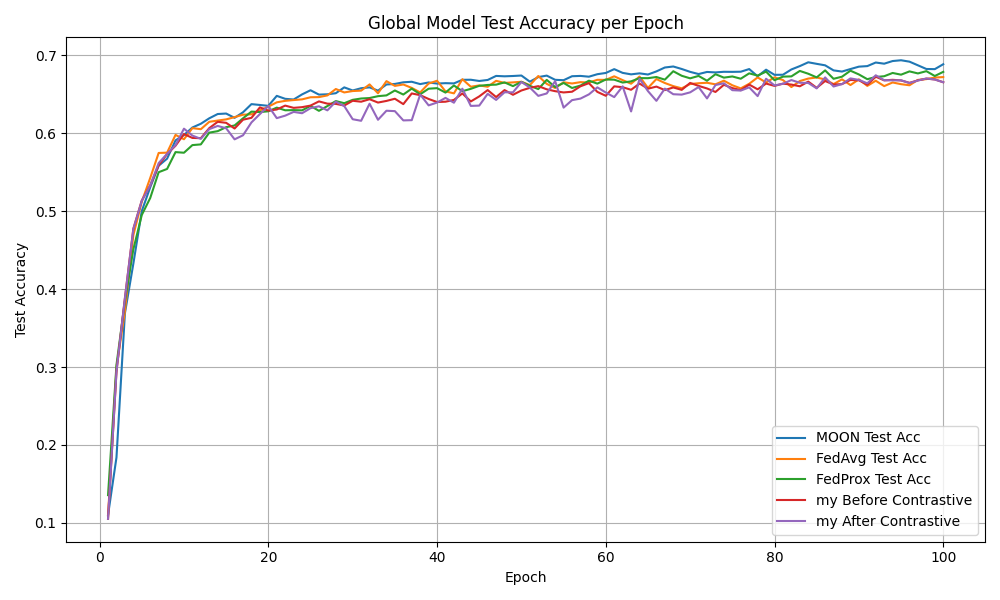
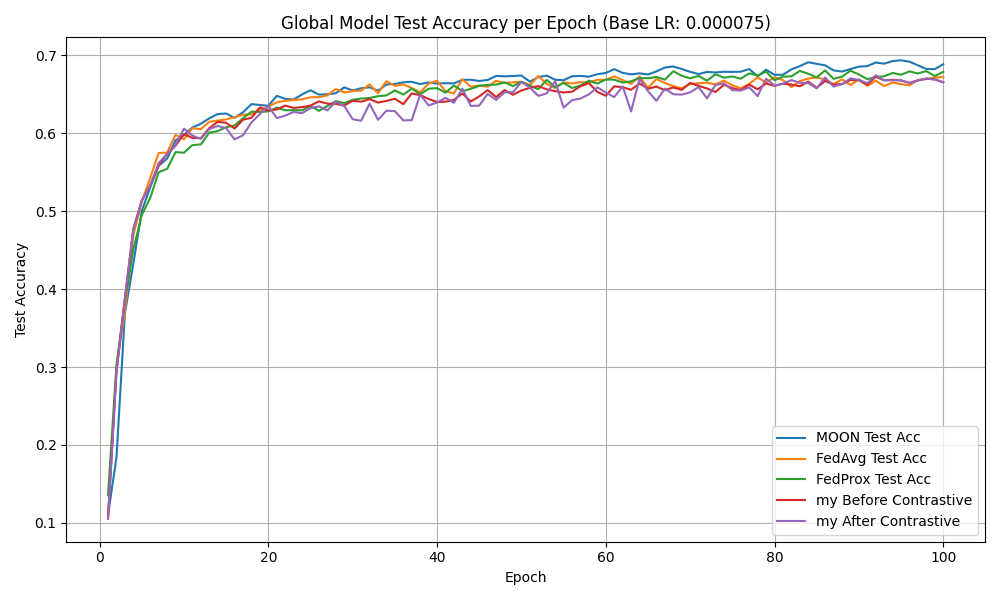
Add visualization of base learning rate in visualize.py and update log.md simultaneously

Changed region(s): [[0.279, 0.03, 0.775, 0.06]]

diff --git a/visualize.py b/visualize.py
@@ -21,6 +21,9 @@ use_contrastive = input("Visualize contrastive learning experiment? (y/n): ").lo
 log_files.append(input(f'Enter the path to log file: '))
 model_names.append(input(f'Enter the model name for log file: '))
 
+# Input base learning rate
+base_learning_rate = input("Enter the base learning rate: ")
+
 # Regular expression for test accuracy
 test_acc_pattern = re.compile(r'Global Model Test accuracy:\s*([0-9.]+)')
 after_contrastive_pattern = re.compile(r'>> After contrastive learning:')
@@ -75,9 +78,10 @@ for idx, log_file in enumerate(log_files):
 
 plt.xlabel('Epoch')
 plt.ylabel('Test Accuracy')
-plt.title('Global Model Test Accuracy per Epoch')
+plt.title(f'Global Model Test Accuracy per Epoch (Base LR: {base_learning_rate})')
 plt.legend()
 plt.grid(True)
 plt.tight_layout()
 plt.savefig(f'result/{figure_name}.png')
-plt.show()
+# plt.show()
+exit()

diff --git a/log.md b/log.md
@@ -77,7 +77,7 @@ scaled_lr = 0.5 * base_lr * (1 + math.cos(math.pi * t))
 - 跟 experiment_log-2025-08-26-0028-30 一樣，只是 contrastive base learning rate 調成 0.002
 
 ### Result
-![result](result\contrastive_learning_rate_0.002.png)
+![result](result\cosine_delay_0.002.png)
 - 最尾端有跟上來
 
 ## experiment_log-2025-08-28-0045-57
@@ -86,7 +86,7 @@ scaled_lr = 0.5 * base_lr * (1 + math.cos(math.pi * t))
 - 跟 experiment_log-2025-08-26-0028-30 一樣，只是 contrastive base learning rate 調成 0.001
 
 ### Result
-![result](result\contrastive_learning_rate_0.001.png)
+![result](result\cosine_decay_0.001.png)
 - 最尾端有跟上來
 - 又比 0.002 好一些
 
@@ -108,7 +108,7 @@ scaled_lr = 0.5 * base_lr * (1 - math.cos(math.pi * t))
 ```
 
 ### Result
-![result](result\opposite_cosine_decay_base_learning_rate_0.001.png)
+![result](result\cosine_warmup_0.001.png)
 - 在 10 round 以前，after contrastive learning 都上升的比 baseline 快，後面掉下來
 - 最後沒收斂
 - 比較 
@@ -128,7 +128,7 @@ scaled_lr = 0.5 * base_lr * (1 - math.cos(math.pi * t))
 - contrastive learning rate -> -cosine delay，從 0 以 -cos 慢慢增加到 0.0005
 
 ### Result
-![result](result\opposite_cosine_decay_base_learning_rate_0.0005.png)
+![result](result\cosine_warmup_0.0005.png)
 - 比 0.001 稍微好一點，但是最後還是沒收斂
 
 ## experiment_log-2025-09-06-1900-33
@@ -150,7 +150,7 @@ scaled_lr = 0.5 * base_lr * (1 - math.cos(math.pi * t))
     - round = 99 -> learning rate = 0
 
 ### Result
-![result](result\cosine_warmup_decay.png)
+![result](result\cosine_warmup_decay_0.0005.png)
 - 開頭和結尾確實不錯，但中間 after contrastive learning 還是有點不好，有可能是 learning rate 還太大
 - 最後 accuracy 介於 fedavg 和 fedprox 中間
 
